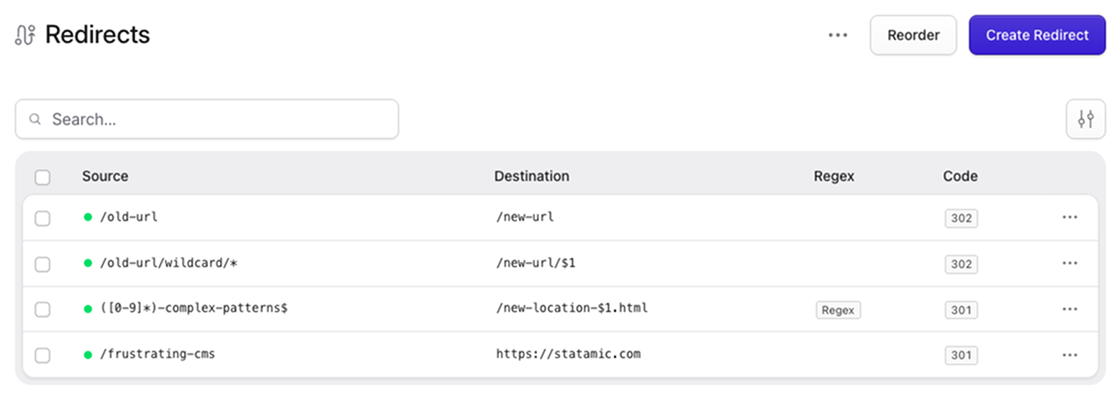
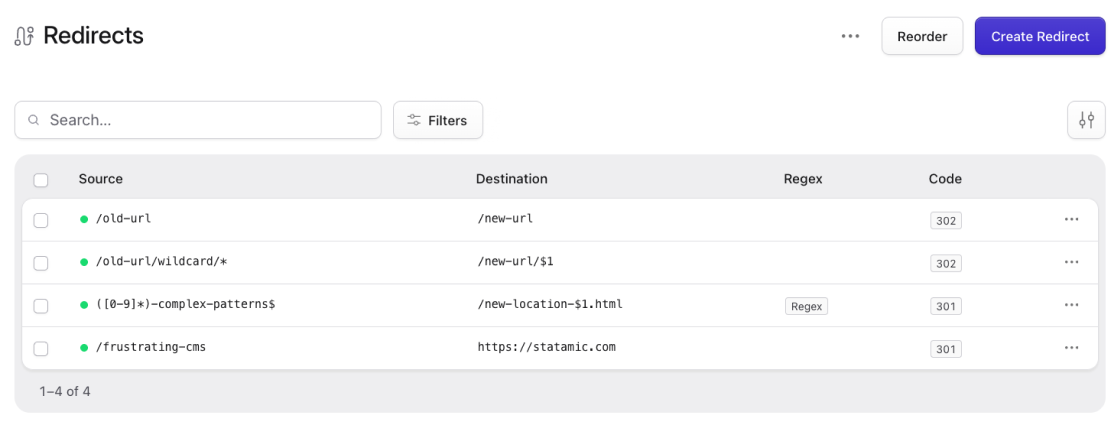
update readme

diff --git a/README.md b/README.md
@@ -104,14 +104,6 @@ Redirects can be imported and exported as CSV files directly from the Control Pa
 
 The importer supports various CSV formats, but at least `source` and `destination` columns are required.
 
-### Prefilled Redirects
-
-Link to the create form with prefilled fields, for example from a 404 report:
-
-```
-/cp/redirects/create?values[source]=/old-page&values[destination]=/new-page
-```
-
 ## Extending
 
 The addon dispatches `RedirectSaved`, `RedirectDeleted` and `RedirectTreeSaved`, as well as `RedirectMatched` whenever a request gets redirected.
